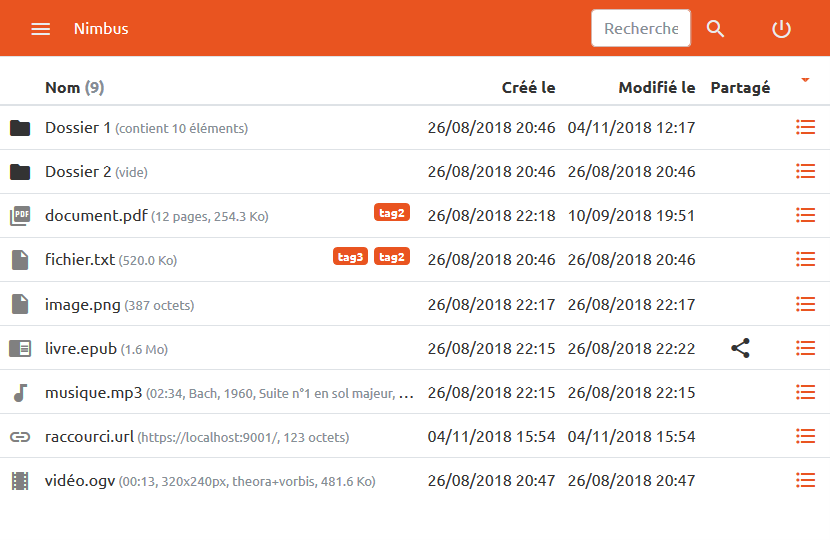
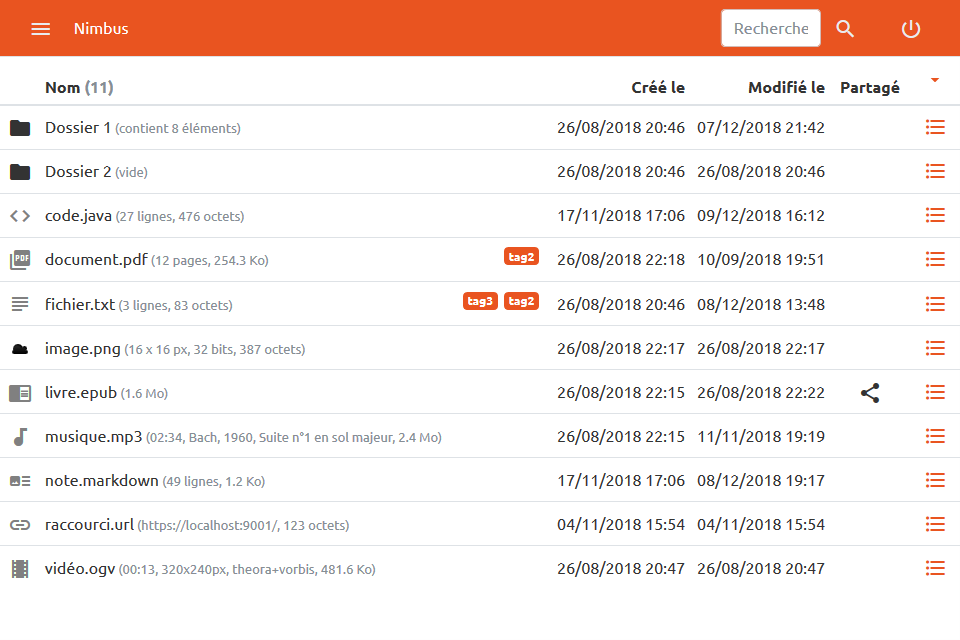
mise à jour des screenshots et de README.md

diff --git a/README.md b/README.md
@@ -52,7 +52,6 @@ Le tableau suivant dresse la liste des fonctionnalités formant le cœur de `Nim
 
 Statut | Fonctionnalité
 -------|----------------
-En cours | Installation simplifiée
 Fait | Configuration simplifiée avec un seul fichier de configuration
 Fait | Accès authentifié depuis un navigateur en HTTPS
 Fait | Multi-utilisateurs avec profils administrateur ou standard
@@ -65,8 +64,11 @@ Fait | Extraction automatique des propriétés (dimension des images, durée d'u
 Fait | Support extensible de différents types de fichiers côté client (plugins)
 Fait | Support des thèmes grâce à Bootstrap (default) et Bootswatch (flatly, darkly, ...)
 Fait | Import, export et téléchargement simplifié des fichiers/dossiers
+Fait | Applications annexes (d'autres à ajouter au fur et à mesure)
+Partiel | Installation simplifiée
 Partiel | Tests automatisables
- | Applications annexes
+Partiel | Synchronisation en local
+A faire | Documentation
 
 ## Import
 
